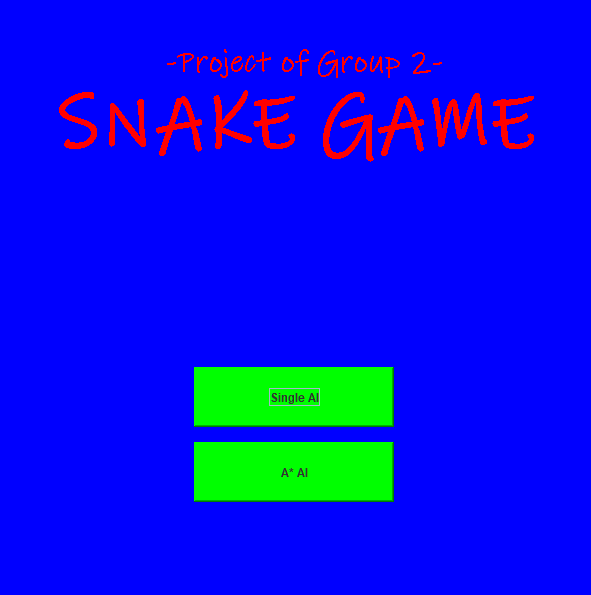
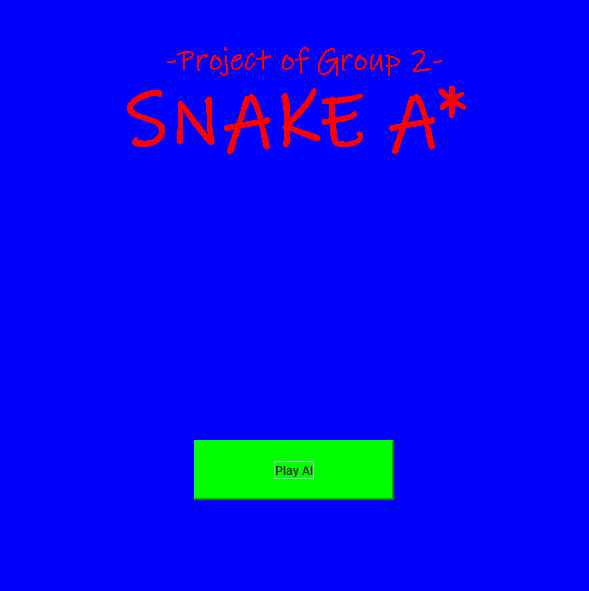
keep only A star mode

Changed region(s): [[0.0917, 0.0609, 0.9168, 0.2741], [0.3056, 0.6091, 0.6723, 0.8528]]

diff --git a/src/MyFrame.java b/src/MyFrame.java
@@ -38,26 +38,26 @@ public class MyFrame extends JFrame {
 		setLocationRelativeTo(null);
 	}
 	
-	public void SingleAI() {
-		singleAIPanel = new SingleAIPanel(this, SCREEN_WIDTH, SCREEN_HEIGHT);
-		contentPane.add(singleAIPanel, "Single AI Panel");
-        cardLayout.next(contentPane);
-		contentPane.remove(MPanel);
-		singleAIPanel.requestFocusInWindow();
-	}
+	// public void SingleAI() {
+	// 	singleAIPanel = new SingleAIPanel(this, SCREEN_WIDTH, SCREEN_HEIGHT);
+	// 	contentPane.add(singleAIPanel, "Single AI Panel");
+    //     cardLayout.next(contentPane);
+	// 	contentPane.remove(MPanel);
+	// 	singleAIPanel.requestFocusInWindow();
+	// }
 	
-	public void gameOverSingleAI(GOSingleAIPanel GOSAI) {
-		this.GOSAI = GOSAI;
-		contentPane.add(GOSAI, "GameOver Single AI Panel");
-        cardLayout.next(contentPane);
-	}
+	// public void gameOverSingleAI(GOSingleAIPanel GOSAI) {
+	// 	this.GOSAI = GOSAI;
+	// 	contentPane.add(GOSAI, "GameOver Single AI Panel");
+    //     cardLayout.next(contentPane);
+	// }
 	
-	public void playAgainSingleAI() {
-		cardLayout.next(contentPane);
-		singleAIPanel.restart();
-		contentPane.remove(GOSAI);
-		singleAIPanel.requestFocusInWindow();
-	}
+	// public void playAgainSingleAI() {
+	// 	cardLayout.next(contentPane);
+	// 	singleAIPanel.restart();
+	// 	contentPane.remove(GOSAI);
+	// 	singleAIPanel.requestFocusInWindow();
+	// }
 
 	public void AStarAI() {
 		aStarAIPanel = new AStarAIPanel(this, SCREEN_WIDTH, SCREEN_HEIGHT);

diff --git a/src/MenuPanel.java b/src/MenuPanel.java
@@ -30,15 +30,15 @@ public class MenuPanel extends JPanel {
 		setBackground(Color.BLUE);
 		setLayout(null);
 		
-		JButton sAI = new JButton("Single AI");
-		sAI.setLayout(null);
-		sAI.setBounds((width / 2) - 100, (height / 4) + 250 - 30, 200, 60);
-		sAI.setBackground(Color.GREEN);
-		sAI.setBorder(BorderFactory.createBevelBorder(0));
-		sAI.addActionListener(new SingleAIListener(frame));
-		add(sAI);
+		// JButton sAI = new JButton("Single AI");
+		// sAI.setLayout(null);
+		// sAI.setBounds((width / 2) - 100, (height / 4) + 250 - 30, 200, 60);
+		// sAI.setBackground(Color.GREEN);
+		// sAI.setBorder(BorderFactory.createBevelBorder(0));
+		// sAI.addActionListener(new SingleAIListener(frame));
+		// add(sAI);
 		
-		JButton Astar = new JButton("A* AI");
+		JButton Astar = new JButton("Play AI");
 		Astar.setLayout(null);
 		Astar.setBounds((width / 2) - 100, (height / 4) + 325 - 30, 200, 60);
 		Astar.setBackground(Color.GREEN);
@@ -59,7 +59,7 @@ public class MenuPanel extends JPanel {
 		g.drawString("-Project of Group 2-", (width - metrics.stringWidth("Project of Group 2"))/2, height / 8);
 		g.setFont(new Font("Ink Free", Font.BOLD, 75));
 		FontMetrics metrics1 = getFontMetrics(g.getFont());
-		g.drawString("SNAKE GAME", (width - metrics1.stringWidth("SNAKE GAME"))/2, height / 4);
+		g.drawString("SNAKE A*", (width - metrics1.stringWidth("SNAKE A*"))/2, height / 4);
 		
 	}
 }
